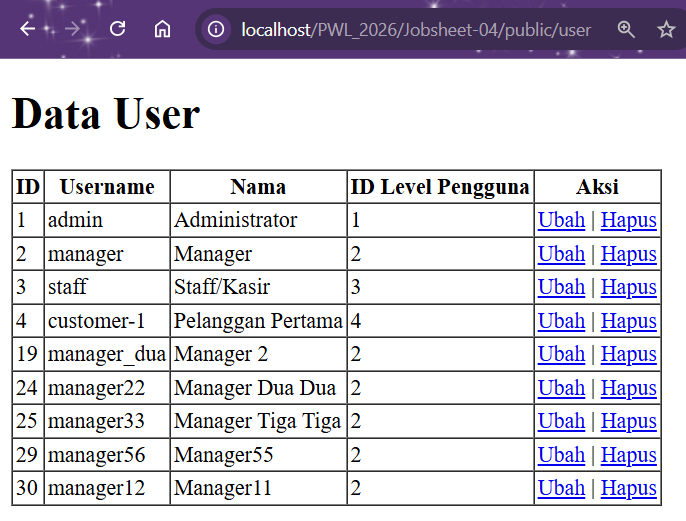
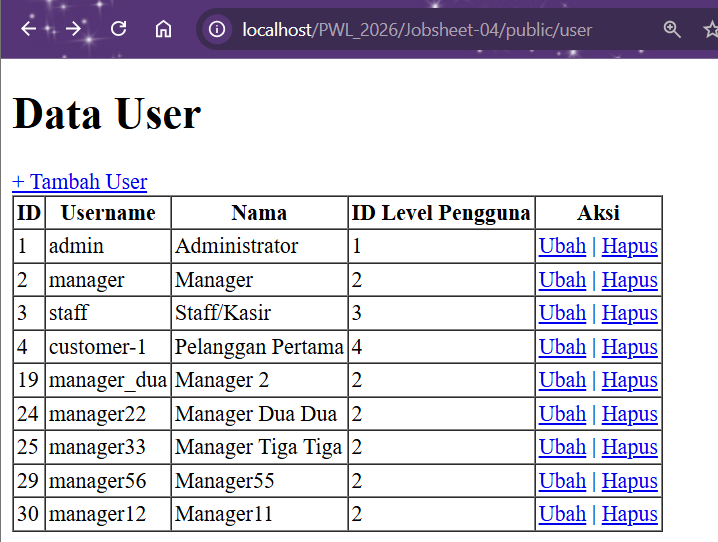
revisi praktikum 2.6 langkah 7 dan 10

diff --git a/Jobsheet-04/resources/views/user_ubah.blade.php b/Jobsheet-04/resources/views/user_ubah.blade.php
@@ -1,0 +1,31 @@
+<!DOCTYPE html>
+<html>
+
+<head>
+    <title>Ubah Data User</title>
+</head>
+
+<body>
+    <h1>Form Ubah Data User</h1>
+    <a href="/user">Kembali</a>
+    <br><br>
+
+    <form method="post" action="/user/ubah_simpan/{{ $data->user_id }}">
+
+        {{ csrf_field() }}
+        {{ method_field('PUT') }}
+
+        <label>Username</label>
+        <input type="text" name="username" placeholder="Masukkan Username"><br>
+        <label>Nama</label>
+        <input type="text" name="nama" placeholder="Masukkan Nama"><br>
+        <label>Password</label>
+        <input type="password" name="password" placeholder="Masukkan Password"><br>
+        <label>Level ID</label>
+        <input type="number" name="level_id" placeholder="Masukkan ID Level"><br>
+        <br><br>
+        <input type="submit" class="btn btn-success" value="Ubah">
+    </form>
+</body>
+
+</html>

diff --git a/Jobsheet-04/routes/web.php b/Jobsheet-04/routes/web.php
@@ -14,6 +14,7 @@ Route::get('/kategori', [KategoriController::class, 'index']);
 Route::get('/user', [UserController::class, 'index']);
 Route::get('/user/tambah', [UserController::class, 'tambah']);
 Route::post('/user/tambah_simpan', [UserController::class, 'tambah_simpan']);
+Route::get('/user/ubah/{id}', [UserController::class, 'ubah']);
 
 //use App\Http\Controllers\HomeController;
 //use App\Http\Controllers\ProductController;

diff --git a/Jobsheet-04/app/Http/Controllers/UserController.php b/Jobsheet-04/app/Http/Controllers/UserController.php
@@ -89,4 +89,10 @@ class UserController extends Controller
         ]);
         return redirect('/user');
     }
+
+    public function ubah($id)
+    {
+        $user = UserModel::find($id);
+        return view('user_ubah', ['data' => $user]);
+    }
 }

diff --git a/Jobsheet-04/resources/views/user.blade.php b/Jobsheet-04/resources/views/user.blade.php
@@ -7,6 +7,7 @@
 
 <body>
     <h1>Data User</h1>
+    <a href="/user/tambah">+ Tambah User</a>
     <table border="1" cellpadding="2" cellspacing="0">
         <tr>
             <th>ID</th>

diff --git a/Jobsheet-04/Jobsheet-04.md b/Jobsheet-04/Jobsheet-04.md
@@ -68,9 +68,12 @@ Pada kolom Aksi, akan muncul dua link untuk setiap pengguna:
 - Hapus: Mengarah ke URL seperti /user/hapus/1.
 
 ![](img/21.png)
-Tetap menampilkan seluruh tabel seperti langkah sebelumnya, karena tidak ada tombol atau tulisan "+ Tambah User" di halaman daftar user, hal itu disebabkan karena link tersebut memang belum ditambahkan secara manual di dalam file user.blade.php.
+![](img/24.png)
+Menampilkan seluruh data user, ketika di klik link “+ Tambah User” browser tidak memunculkan apapun karena tidak ada perintah untuk menuju ke link tersebut.
 
 ![](img/22.png)
 Menampilkan Form Tambah Data User 
+
+![](img/23.png)
 
 ### Praktikum 2.7
